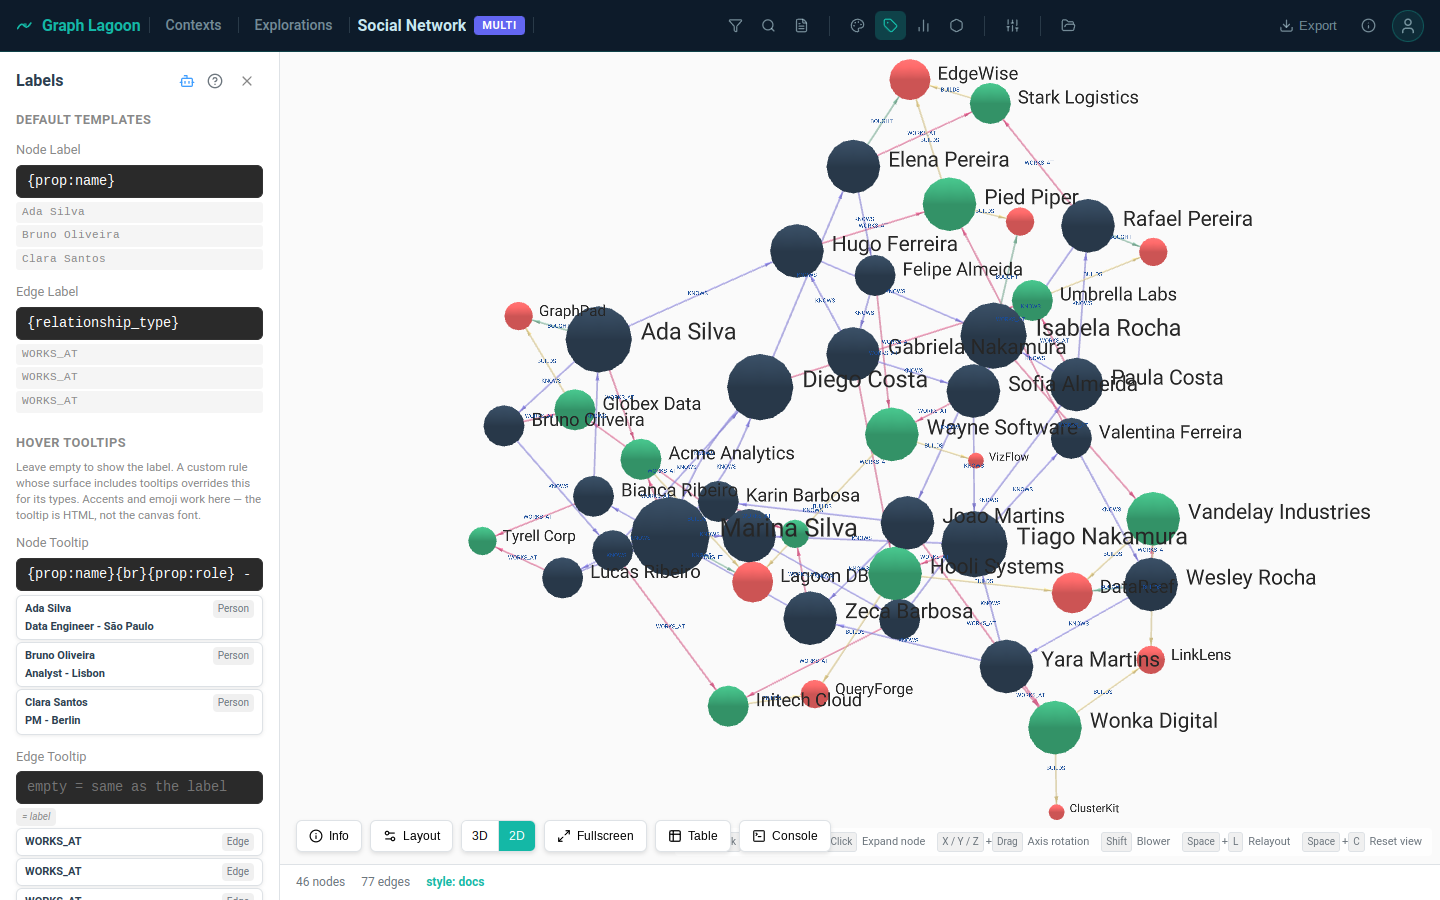
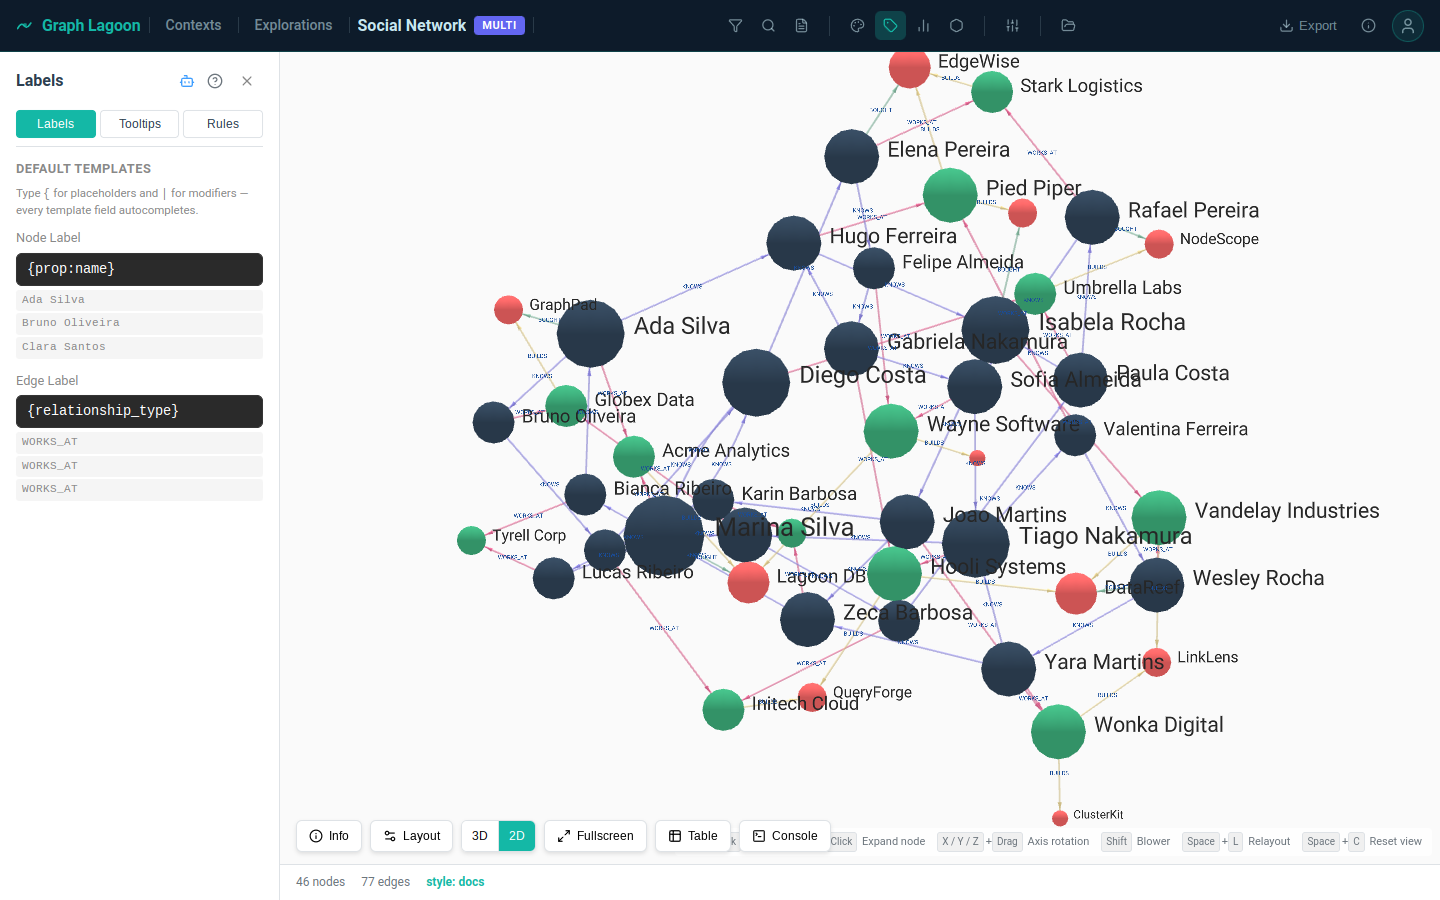
feat(labels): panel tabs (Labels | Tooltips | Rules) + form polish
Four template fields with always-on previews pushed Custom Rules below
the fold on a 900px viewport. The panel now uses the house tab pattern
(MetricsPanel, ClusterProgramPanel). Rules keep a single tab of their
own — not split under Labels/Tooltips — because a rule can drive both
surfaces; the surface chip says which and the tab badge counts them.

Inside the forms: tooltip fields are multiline (long templates wrap
instead of scrolling), the Node Label placeholder shows the real stock
default instead of the misleading {node_id}, and a hint under Default
Templates makes the {-autocomplete discoverable.

Unit/e2e/screenshot flows updated for tab navigation.

diff --git a/frontend/src/components/TextFormatPanel.vue b/frontend/src/components/TextFormatPanel.vue
@@ -17,13 +17,46 @@
       </div>
     </div>
 
+    <!-- Tabs (house pattern: MetricsPanel, ClusterProgramPanel) -->
+    <div class="tabs">
+      <button
+        class="tab"
+        :class="{ active: activeTab === 'labels' }"
+        data-testid="labels-tab-labels"
+        @click="activeTab = 'labels'"
+      >
+        Labels
+      </button>
+      <button
+        class="tab"
+        :class="{ active: activeTab === 'tooltips' }"
+        data-testid="labels-tab-tooltips"
+        @click="activeTab = 'tooltips'"
+      >
+        Tooltips
+      </button>
+      <button
+        class="tab"
+        :class="{ active: activeTab === 'rules' }"
+        data-testid="labels-tab-rules"
+        @click="activeTab = 'rules'"
+      >
+        Rules
+        <span v-if="graphStore.textFormatRules.length > 0" class="tab-badge">{{ graphStore.textFormatRules.length }}</span>
+      </button>
+    </div>
+
     <!-- Default Templates -->
-    <div class="section">
+    <div v-if="activeTab === 'labels'" class="section">
       <div class="section-title">Default Templates</div>
+      <p class="section-hint">
+        Type <code>{</code> for placeholders and <code>|</code> for modifiers —
+        every template field autocompletes.
+      </p>
 
       <div class="default-template">
         <label>Node Label</label>
-        <TemplateInput v-model="nodeDefaultTemplate" target="node" placeholder="{node_id}" />
+        <TemplateInput v-model="nodeDefaultTemplate" target="node" placeholder="{node_id|truncate:10:...}" />
         <TemplatePreviewInline :template="nodeDefaultTemplate" target="node" />
       </div>
 
@@ -35,7 +68,7 @@
     </div>
 
     <!-- Hover Tooltips -->
-    <div class="section">
+    <div v-if="activeTab === 'tooltips'" class="section">
       <div class="section-title">Hover Tooltips</div>
       <p class="section-hint">
         Leave empty to show the label. A custom rule whose surface includes
@@ -48,6 +81,7 @@
         <TemplateInput
           v-model="nodeTooltipTemplate"
           target="node"
+          multiline
           placeholder="empty = same as the label"
           data-testid="tooltip-template-node"
         />
@@ -64,6 +98,7 @@
         <TemplateInput
           v-model="edgeTooltipTemplate"
           target="edge"
+          multiline
           placeholder="empty = same as the label"
           data-testid="tooltip-template-edge"
         />
@@ -77,7 +112,7 @@
     </div>
 
     <!-- Custom Rules -->
-    <div class="section">
+    <div v-if="activeTab === 'rules'" class="section">
       <div class="section-title">
         Custom Rules
         <button class="add-rule-btn" @click="startAddRule" title="Add Rule">
@@ -174,6 +209,9 @@ const emit = defineEmits<{
 
 const graphStore = useGraphStore();
 const toast = useToast();
+
+// Which tab is open. 'labels' first: defaults are the most-edited thing.
+const activeTab = ref<'labels' | 'tooltips' | 'rules'>('labels');
 
 // Help modal
 const showHelp = ref(false);
@@ -306,6 +344,53 @@ function deleteRule(ruleId: string) {
 
 .close-btn:hover {
   color: var(--vt-c-text-1, #fff);
+}
+
+.tabs {
+  display: flex;
+  gap: 4px;
+  margin-bottom: 12px;
+  border-bottom: 1px solid var(--border-color, #ddd);
+  padding-bottom: 8px;
+}
+
+.tab {
+  flex: 1;
+  white-space: nowrap;
+  padding: 6px 8px;
+  background: transparent;
+  border: 1px solid var(--border-color, #ddd);
+  border-radius: 4px;
+  cursor: pointer;
+  font-size: 12px;
+  transition: all 0.15s;
+  color: var(--text-color, #333);
+}
+
+.tab:hover {
+  background: var(--bg-secondary, #f5f5f5);
+}
+
+.tab.active {
+  background: var(--primary-color, #42b883);
+  color: white;
+  border-color: var(--primary-color, #42b883);
+}
+
+.tab-badge {
+  display: inline-block;
+  min-width: 16px;
+  padding: 0 4px;
+  margin-left: 4px;
+  border-radius: 8px;
+  background: rgba(255, 255, 255, 0.25);
+  font-size: 10px;
+  line-height: 16px;
+}
+
+.tab:not(.active) .tab-badge {
+  background: var(--bg-secondary, #eee);
+  color: var(--text-secondary, #888);
 }
 
 .section {

diff --git a/frontend/src/components/__tests__/TextFormatPanel.test.ts b/frontend/src/components/__tests__/TextFormatPanel.test.ts
@@ -59,7 +59,8 @@ describe('TextFormatPanel — inline validation and preview', () => {
     const { container } = render(TextFormatPanel)
     const graphStore = useGraphStore()
 
-    // Open the rule editor modal
+    // Open the rule editor modal (rules live in their own tab)
+    await fireEvent.click(container.querySelector('[data-testid="labels-tab-rules"]') as HTMLButtonElement)
     const addBtn = container.querySelector('.add-rule-btn') as HTMLButtonElement
     await fireEvent.click(addBtn)
 
@@ -81,6 +82,7 @@ describe('TextFormatPanel — inline validation and preview', () => {
     const { container } = render(TextFormatPanel)
     const graphStore = useGraphStore()
 
+    await fireEvent.click(container.querySelector('[data-testid="labels-tab-rules"]') as HTMLButtonElement)
     const addBtn = container.querySelector('.add-rule-btn') as HTMLButtonElement
     await fireEvent.click(addBtn)
 
@@ -103,6 +105,7 @@ describe('TextFormatPanel — inline validation and preview', () => {
     const { container } = render(TextFormatPanel)
     const graphStore = useGraphStore()
 
+    await fireEvent.click(container.querySelector('[data-testid="labels-tab-rules"]') as HTMLButtonElement)
     await fireEvent.click(container.querySelector('.add-rule-btn') as HTMLButtonElement)
     await fireEvent.update(modalEl('[data-testid="rule-name"]') as HTMLInputElement, 'Tip rule')
     await fireEvent.update(modalEl('[data-testid="rule-surface"]') as HTMLSelectElement, 'tooltip')
@@ -131,6 +134,7 @@ describe('TextFormatPanel — hover tooltip templates', () => {
       const { container } = render(TextFormatPanel)
       const graphStore = useGraphStore()
 
+      await fireEvent.click(container.querySelector('[data-testid="labels-tab-tooltips"]') as HTMLButtonElement)
       const input = container.querySelector(
         '[data-testid="tooltip-template-node"]'
       ) as HTMLInputElement
@@ -151,6 +155,7 @@ describe('TextFormatPanel — hover tooltip templates', () => {
       const { container } = render(TextFormatPanel)
       const graphStore = useGraphStore()
 
+      await fireEvent.click(container.querySelector('[data-testid="labels-tab-tooltips"]') as HTMLButtonElement)
       const input = container.querySelector(
         '[data-testid="tooltip-template-edge"]'
       ) as HTMLInputElement
@@ -167,6 +172,7 @@ describe('TextFormatPanel — hover tooltip templates', () => {
     const { container } = render(TextFormatPanel)
     const graphStore = useGraphStore()
 
+    await fireEvent.click(container.querySelector('[data-testid="labels-tab-tooltips"]') as HTMLButtonElement)
     graphStore.updateTextFormatDefaults({ nodeTooltipTemplate: '{node_type}' })
     await new Promise((r) => setTimeout(r, 0))
 
@@ -176,9 +182,10 @@ describe('TextFormatPanel — hover tooltip templates', () => {
     expect(input.value).toBe('{node_type}')
   })
 
-  it('starts empty, so an unconfigured tooltip keeps showing the label', () => {
+  it('starts empty, so an unconfigured tooltip keeps showing the label', async () => {
     const { container } = render(TextFormatPanel)
 
+    await fireEvent.click(container.querySelector('[data-testid="labels-tab-tooltips"]') as HTMLButtonElement)
     const node = container.querySelector('[data-testid="tooltip-template-node"]') as HTMLInputElement
     const edge = container.querySelector('[data-testid="tooltip-template-edge"]') as HTMLInputElement
     expect(node.value).toBe('')

diff --git a/frontend/e2e/tests/tooltip-templates.spec.ts b/frontend/e2e/tests/tooltip-templates.spec.ts
@@ -72,6 +72,7 @@ test.describe('Hover tooltip templates', () => {
   /** Type the template into the panel and let the 400 ms debounce land. */
   async function setNodeTooltipTemplate(page: Page, template: string) {
     await page.getByTitle('Labels', { exact: true }).click();
+    await page.getByTestId('labels-tab-tooltips').click();
     await page.getByTestId('tooltip-template-node').fill(template);
     await page.waitForTimeout(600);
     await page.getByTitle('Labels', { exact: true }).click();
@@ -108,6 +109,7 @@ test.describe('Hover tooltip templates', () => {
     await setNodeTooltipTemplate(page, 'TIP {node_id}');
 
     await page.getByTitle('Labels', { exact: true }).click();
+    await page.getByTestId('labels-tab-tooltips').click();
     await expect(page.getByTestId('tooltip-template-node')).toHaveValue('TIP {node_id}');
     await page.getByTitle('Labels', { exact: true }).click();
 
@@ -129,6 +131,7 @@ test.describe('Tooltip-surface rules (rule editor modal)', () => {
   }) => {
     // Create the rule through the modal (house pattern: list in panel, edit in modal).
     await page.getByTitle('Labels', { exact: true }).click();
+    await page.getByTestId('labels-tab-rules').click();
     await page.locator('.add-rule-btn').click();
 
     const modal = page.getByTestId('rule-editor-modal');
@@ -154,6 +157,7 @@ test.describe('Tooltip-surface rules (rule editor modal)', () => {
 
   test('Escape closes the modal without saving', async ({ authenticatedPage: page }) => {
     await page.getByTitle('Labels', { exact: true }).click();
+    await page.getByTestId('labels-tab-rules').click();
     await page.locator('.add-rule-btn').click();
     await expect(page.getByTestId('rule-editor-modal')).toBeVisible();
 

diff --git a/frontend/e2e/tests/graph.spec.ts b/frontend/e2e/tests/graph.spec.ts
@@ -296,6 +296,8 @@ test.describe('Graph Visualization', () => {
       await page.getByTitle('Labels').click();
       // exact: the Custom Rules hint mentions "default templates" too
       await expect(page.getByText('Default Templates', { exact: true })).toBeVisible();
+      // Rules live in their own tab
+      await page.getByTestId('labels-tab-rules').click();
       // "Custom Rules" exact to avoid matching "No custom rules defined..."
       await expect(page.getByText('Custom Rules', { exact: true })).toBeVisible();
 

diff --git a/frontend/e2e/screenshots/generate.ts b/frontend/e2e/screenshots/generate.ts
@@ -377,6 +377,7 @@ const SCENES: Scene[] = [
     prepare: async (page) => {
       await waitForGraphSettled(page);
       await openPanel(page, 'Labels');
+      await page.getByTestId('labels-tab-rules').click();
       await page.locator('.add-rule-btn').click();
       const modal = page.getByTestId('rule-editor-modal');
       await expect(modal).toBeVisible();

diff --git a/docs/dev/decision_log.md b/docs/dev/decision_log.md
@@ -9341,3 +9341,27 @@ Tests: 2374 unit green (2 new for the priority default; selectors updated
 for the textarea), 6 e2e green, `labels-rule-modal.png` regenerated.
 No public-docs impact beyond the labels.md priority sentence; no admin-area
 impact.
+
+## [2026-09-03 08:00] - Refinement: Labels panel tabs + form polish
+
+The Labels panel outgrew a single scroll (4 template fields with previews
+pushed Custom Rules below the fold on a 900px viewport). It now has three
+tabs — **Labels | Tooltips | Rules** — the house pattern (MetricsPanel,
+ClusterProgramPanel). Rules get their own tab rather than being split
+under Labels/Tooltips precisely because a rule can drive both surfaces;
+the surface chip says which, and a tab badge counts the rules.
+
+Form polish inside the panel: the two tooltip fields are multiline
+(same TemplateInput mode as the modal), the Node Label placeholder now
+shows the real stock default ({node_id|truncate:10:...}, not {node_id}),
+and a hint under Default Templates surfaces the autocomplete
+("Type { for placeholders and | for modifiers").
+
+Priority default question revisited and kept: a new rule already IS the
+maximum (max of existing same-target priorities + 10, ceiling 100) — a
+literal fixed 100 would make the second new rule tie with the first, and
+ties resolve toward the OLDER rule, the opposite of the intent.
+
+Tests updated for tab navigation (unit + e2e + screenshot scenes);
+labels.md panel description now says tabs. 2377 unit green, 6 e2e green.
+No admin-area impact.

diff --git a/docs/guide/labels.md b/docs/guide/labels.md
@@ -22,14 +22,14 @@ template language: you decide what text each node and edge shows, extract
 the readable part out of messy values, and preview the result on your real
 data before it hits the canvas.
 
-Open it from the toolbar **Labels** button. It has two layers:
+Open it from the toolbar **Labels** button. It has three tabs:
 
-- **Default templates** — one for all nodes, one for all edges.
-- **Hover tooltips** — one template per target for the box that appears on
+- **Labels** — the default templates, one for all nodes, one for all edges.
+- **Tooltips** — one template per target for the box that appears on
   hover; empty means "same as the label".
-- **Custom rules** — templates that apply only to some target (node/edge)
+- **Rules** — templates that apply only to some target (node/edge)
   and, optionally, only to some types, with a priority to break ties. Each
-  rule applies to labels, tooltips, or both.
+  rule applies to labels, tooltips, or both; the tab badge counts them.
 
 ![Labels panel](/screenshots/labels-panel.png)
 
